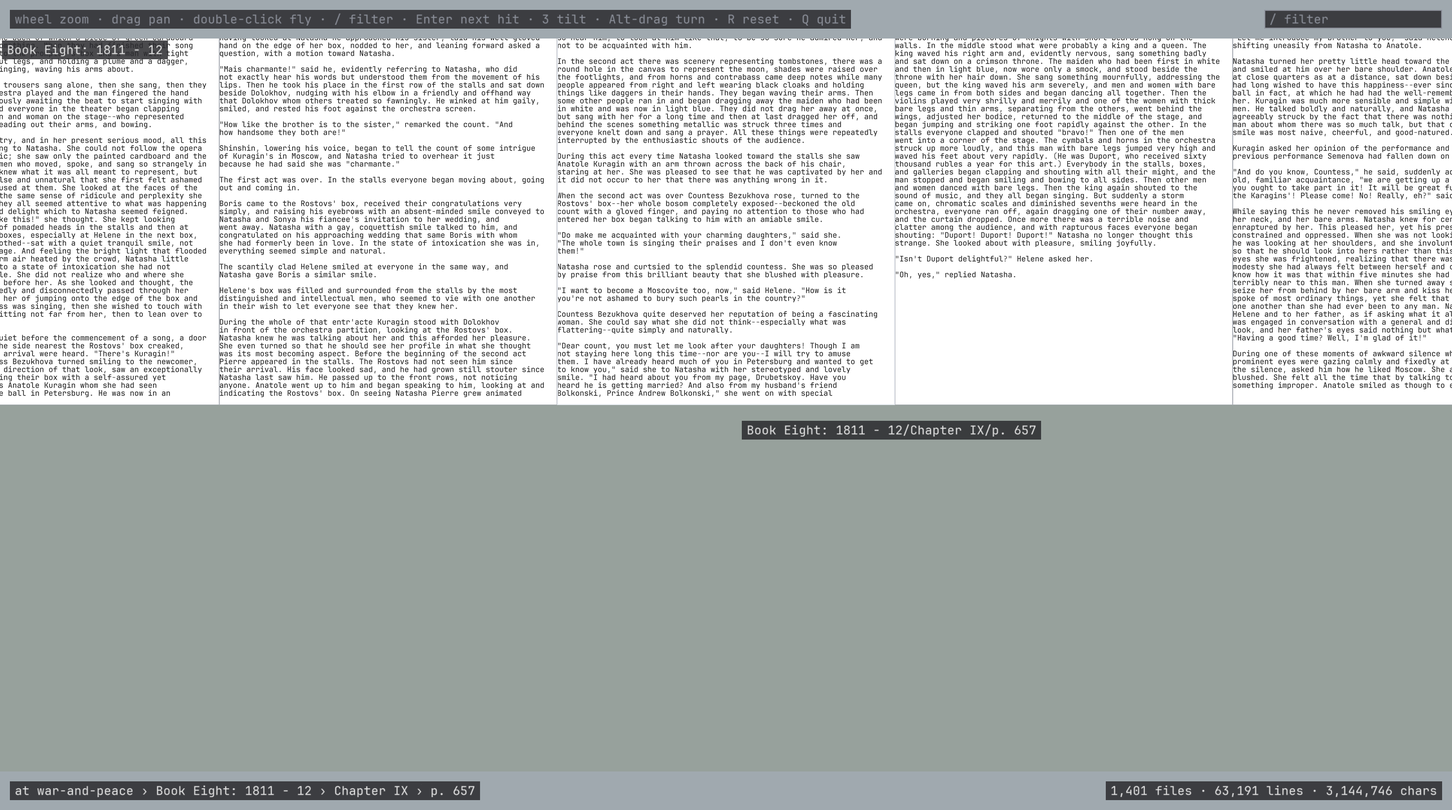
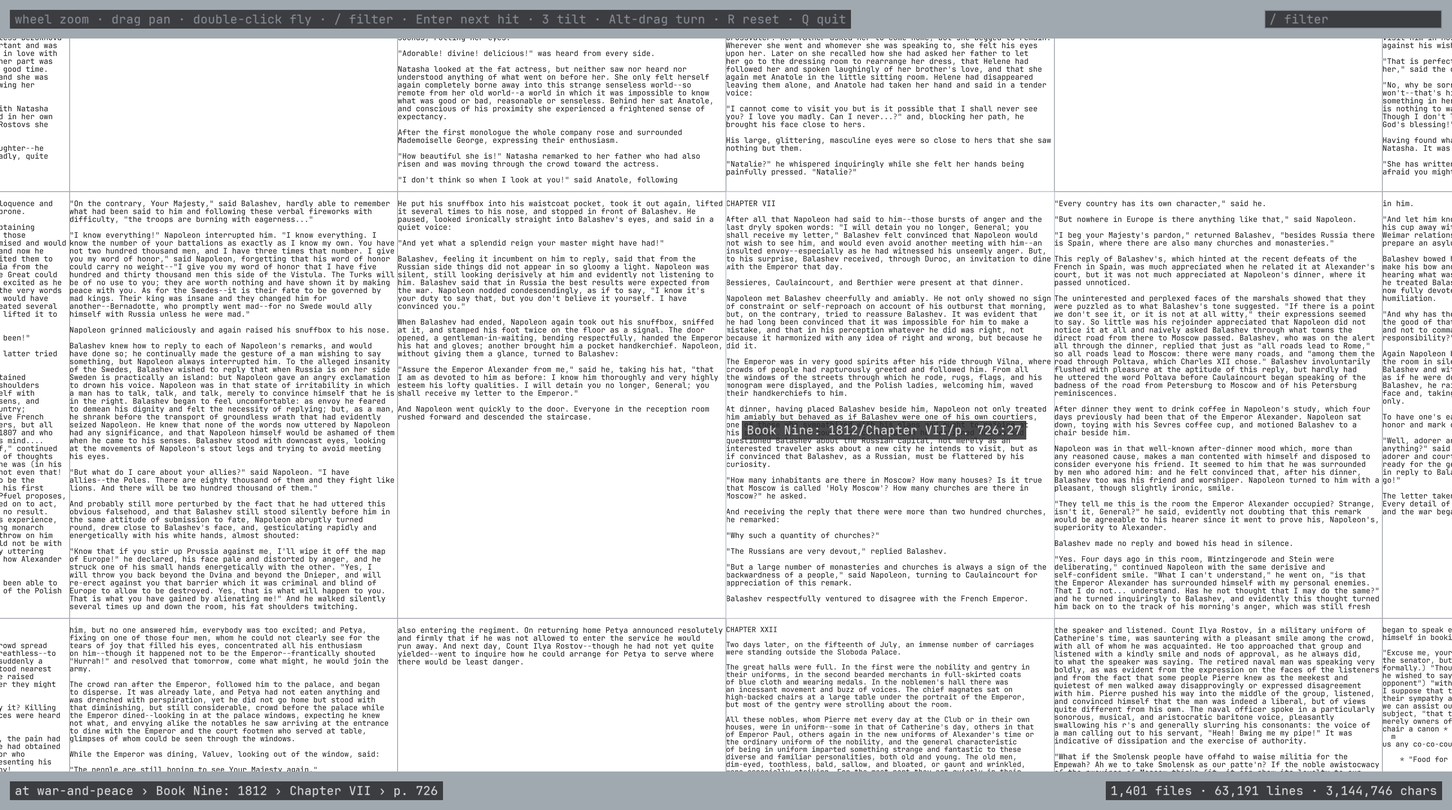
The book flows as one grid of pages, Dobbie's way, and its bands take the ground's colour
atlas_layout.py lays a book out as one grid of every page in reading order by default: the layout's tree is the root alone, the parts draw nothing, 58 pages across for War and Peace; --book-layout parts keeps the bands of page rows. A scheme may name one band colour for every directory instead of the hues, and the book's is its ground, so nothing marks a part but the crumb trail. tests/check_layout.py checks the layout's own tree.

diff --git a/atlas_layout.py b/atlas_layout.py
@@ -9,8 +9,10 @@ subdirectories are squarified inside, biggest first, each file's area its
 weight: tokens for code, lines for a book. A file is split into k equal
 columns so that its text is as large as possible while a column still holds
 the file's typical line length; lines longer than a column wrap inside it.
-A book (index.json "corpus": "book") is laid out in reading order instead,
-parts as bands of page rows, and its layout is flat: nothing rises in 3D.
+A book (index.json "corpus": "book") is laid out in reading order instead:
+one grid of pages, as Dobbie's War and Peace, or with --book-layout parts
+every part its own band of page rows; either way the layout is flat,
+nothing rises in 3D.
 
   ./atlas_layout.py data/big-text_atlas --preview docs/shots/big-text_layout.png
 """
@@ -177,6 +179,37 @@ def book_layout(dirs, world, page_aspect):
             file_rect[f] = (x0 + pp + j * cw, y + pp + i * ch, x0 + pp + (j + 1) * cw, y + pp + (i + 1) * ch)
         y += r * row_h
     return dir_rect, dir_pad, file_rect, cols
+
+
+def book_flow(dirs, world, page_aspect):
+    """Rectangles for a book as one grid: every page one cell of one size,
+    rows filled left to right in reading order across the whole book, the
+    parts not drawn (the layout's tree is the root alone, every page its
+    file; the paths still carry part and chapter). The column count is the
+    one that brings a cell closest to page_aspect from the wide side, so a
+    page's single column holds its lines. Returns (dirs, file_dir,
+    dir_rect, dir_pad, file_rect, cols)."""
+    files = sorted(f for d in dirs for f in d["files"])   # index order is reading order
+    n = len(files)
+    root = dict(dirs[0], children=[], files=files)
+    dir_rect, dir_pad, file_rect = np.zeros((1, 4)), np.zeros(1), np.zeros((n, 4))
+    dir_rect[0] = (0.0, 0.0, world[0], world[1])
+    pad = dir_padding(world[0], world[1])
+    dir_pad[0] = pad
+    x0, y0, x1, y1 = pad, pad, world[0] - pad, world[1] - pad
+    best = None
+    for cols in range(1, max(n, 1) + 1):
+        rows = -(-n // cols)
+        ratio = ((x1 - x0) / cols) / ((y1 - y0) / rows) / page_aspect
+        key = (ratio < 1, abs(math.log(ratio)))
+        if best is None or key < best[0]:
+            best = (key, cols, rows)
+    _, cols, rows = best
+    cw, ch = (x1 - x0) / cols, (y1 - y0) / rows
+    for k, f in enumerate(files):
+        i, j = divmod(k, cols)
+        file_rect[f] = (x0 + j * cw, y0 + i * ch, x0 + (j + 1) * cw, y0 + (i + 1) * ch)
+    return [root], np.zeros(n, np.int64), dir_rect, dir_pad, file_rect, cols
 
 
 # ---------------------------------------------------------------- files
@@ -459,7 +492,13 @@ def build_layout(args, z, meta, t0):
     if flat:
         # a page cell's aspect: the book's line width by its fullest page
         page = (int(meta.get("page_lines", np.diff(file_line0).max())), int(np.percentile(line_len, 99.5)))
-        dir_rect, dir_pad, file_rect, book_cols = book_layout(dirs, world, page[1] * args.char_aspect / (page[0] + 2))
+        aspect_p = page[1] * args.char_aspect / (page[0] + 2)
+        if args.book_layout == "parts":
+            dir_rect, dir_pad, file_rect, book_cols = book_layout(dirs, world, aspect_p)
+        else:
+            dirs, file_dir, dir_rect, dir_pad, file_rect, book_cols = book_flow(dirs, world, aspect_p)
+            n_dirs, dir_hue = 1, np.zeros(1, np.int64)
+            file_hue = np.zeros(n_files, np.int64)
     else:
         dir_rect, dir_pad, file_rect = layout_tree(dirs, weight, file_dir, world, np.diff(file_line0))
     dir_depth = np.zeros(n_dirs, np.int64)
@@ -525,6 +564,9 @@ def main():
                                  formatter_class=argparse.RawDescriptionHelpFormatter)
     ap.add_argument("atlas", metavar="ATLAS_DIR", help="data/<name>_atlas with index.npz + index.json")
     ap.add_argument("--aspect", default="16:9", help="world aspect W:H (default 16:9)")
+    ap.add_argument("--book-layout", choices=["flow", "parts"], default="flow",
+                    help="a book: flow (default) is one grid of pages in reading order; parts gives "
+                         "every part its own band of page rows")
     ap.add_argument("--char-aspect", type=float, default=None,
                     help="character advance / line pitch of the font (default: atlas_font.py's "
                          "metric for the bundled font, JetBrains Mono NL 0.571; 0.6 if it is missing)")

diff --git a/atlas_viewer.py b/atlas_viewer.py
@@ -277,6 +277,7 @@ class Viewer:
         self.bg = rgb(sc["ground"].lstrip("#"))
         self.page = rgb(sc["page"].lstrip("#"))
         self.bar = rgb(sc["bar"].lstrip("#"))
+        self.band = rgb(sc["band"].lstrip("#")) if sc.get("band") else None   # one colour for every band, else the hues
         self.kind_colors = np.array([rgb(h.lstrip("#")) for h in sc["kinds"]], np.float32)
         self.item_colors = {k + 1: rgb(h.lstrip("#")) for k, h in enumerate(sc["items"])}
         if sc.get("font") and args.font == atlas_font.DEFAULT_FONT:
@@ -546,10 +547,14 @@ class Viewer:
             loc = glGetUniformLocation(p, "uKindColor")
             if loc >= 0:
                 glUniform3fv(loc, 10, self.kind_colors)
-            for name, col in (("uPage", self.page), ("uGround", self.bg), ("uBar", self.bar)):
+            for name, col in (("uPage", self.page), ("uGround", self.bg), ("uBar", self.bar),
+                              ("uBandColor", self.band if self.band is not None else self.bg)):
                 loc = glGetUniformLocation(p, name)
                 if loc >= 0:
                     glUniform3f(loc, *col)
+            loc = glGetUniformLocation(p, "uBandFlat")
+            if loc >= 0:
+                glUniform1i(loc, 1 if self.band is not None else 0)
             loc = glGetUniformLocation(p, "uGlyph")
             if loc >= 0:
                 glUniform4f(loc, self.gm["cell_w"], self.gm["cell_h"],

diff --git a/tests/check_layout.py b/tests/check_layout.py
@@ -79,13 +79,13 @@ def main():
     if failures:
         sys.exit(f"{len(failures)} failures")
 
-    dirs = meta["dirs"]
+    dirs = lay["dirs"]                 # the layout's tree: a book's flow layout keeps the root alone
     n_files, n_dirs, n_items = len(meta["files"]), len(dirs), len(meta["items"])
     n_lines = len(z["line_len"])
-    file_line0, file_dir = z["file_line0"], z["file_dir"]
+    file_line0, file_dir = z["file_line0"], L["file_dir"]
     check(len(z["line_off"]) == n_lines + 1 and int(z["line_off"][-1]) == len(z["chars"]) == len(z["kinds"]),
           f"index: line_off spans {len(z['chars'])} chars, {n_lines} lines")
-    check(len(file_line0) == n_files + 1 and int(file_line0[-1]) == n_lines and len(file_dir) == n_files,
+    check(len(file_line0) == n_files + 1 and int(file_line0[-1]) == n_lines and len(z["file_dir"]) == n_files,
           f"index: {n_files} files cover the lines")
     check((np.diff(file_line0.astype(np.int64)) >= 0).all() and (np.diff(z["line_off"].astype(np.int64)) >= 0).all(),
           "index: file_line0 and line_off are monotonic")

diff --git a/book_index.py b/book_index.py
@@ -40,8 +40,9 @@ sys.path.insert(0, os.path.dirname(os.path.abspath(__file__)))
 from atlas_index import (SPECS, MAX_COLS, TAB, PUNCT, SPACE, _CTRL, tokenize, write_index)  # noqa: E402
 
 # the book's colours, Dobbie's: white pages on his demo's blue-grey ground
-# (its clearColor), black text, dark grey bars; words and numbers alike
-SCHEME = {"ground": "a0a9af", "page": "ffffff", "bar": "5a5e66",
+# (its clearColor), black text, dark grey bars, the bands in the ground's
+# own colour so parts draw nothing; words and numbers alike
+SCHEME = {"ground": "a0a9af", "page": "ffffff", "bar": "5a5e66", "band": "a0a9af",
           "kinds": ["000000", "141414", "141414", "141414", "141414", "3a3a3a", "141414", "4a4a4a", "141414", "141414"],
           "items": ["7aa2f7", "e0c080", "d7a0a8", "5fb7b7", "8c909a"]}
 

diff --git a/README.md b/README.md
@@ -8,7 +8,7 @@ big-text is the text-scale sibling of [big-picture](https://github.com/erik-lars
 
 ![War and Peace tilted at 3 pixels per line: one flat sheet of pages, the near ones as text, the far rows as line bars, the Books as coloured bands](docs/shots/war-and-peace/hero.png)
 
-*The same viewer on War and Peace, Dobbie's example, in his colours: white pages on the blue-grey ground of his demo, 1,401 pages and 2.63 million glyphs as one flat sheet, tilted, the near pages at the text rung and the far rows at bars in the same frame, the Books as bands.*
+*The same viewer on War and Peace, Dobbie's example, in his colours: white pages on the blue-grey ground of his demo, 1,401 pages and 2.63 million glyphs as one grid in reading order, tilted, the near pages at the text rung and the far rows at bars in the same frame.*
 
 It shows three kinds of content, in this order of priority: text, images, 2D vector work. Each has an open-source lineage, and the ladder that ties them together has a fourth:
 
@@ -122,7 +122,7 @@ Dobbie's example, War and Peace, needs nothing beyond the install: no submodule,
 ```
 
 1. `book_index.py` fetches Project Gutenberg ebook 2600 (3.4 MB) into `data/gutenberg/pg2600.txt` on the first run and reads it from there after, drops Gutenberg's header and footer, and splits the text on its headings: `BOOK ONE: 1805` and the two epilogues open a part, `CHAPTER I` a chapter, every 52 lines of a chapter are a page. It writes `data/war-and-peace_atlas/index.npz` and `index.json`, the same index a source tree gets, with parts as directories and pages as files named `Book One: 1805/Chapter I/p. 17`, and the book's scheme, Dobbie's: white pages, black text, grey bars, his demo's blue-grey ground; and prints the counts: 18 parts, 366 chapters, 1,401 pages, 2.63 million glyphs, half a second.
-2. `atlas_layout.py` sees `"corpus": "book"` in the index and lays the pages out in reading order instead of a treemap: every part a full-width band of whole page rows, every page one cell, 65 pages across, and writes `layout.npz`, with lines as the book's one metric; in 3D a book is one flat sheet, nothing extruded, the tilt just a way of looking at it. Add `--preview docs/shots/war-and-peace_layout.png` to render the result with Pillow without opening a window.
+2. `atlas_layout.py` sees `"corpus": "book"` in the index and lays the pages out in reading order instead of a treemap: one grid, as Dobbie's demo, every page one cell of one size, 58 pages across, the parts drawing nothing, and writes `layout.npz`, with lines as the book's one metric; `--book-layout parts` gives every part its own band of page rows instead. In 3D a book is one flat sheet, nothing extruded, the tilt just a way of looking at it. Add `--preview docs/shots/war-and-peace_layout.png` to render the result with Pillow without opening a window.
 3. `atlas_viewer.py` opens the book fitted to the window. Everything in Controls works: `/` filters (`Natasha` finds 1,213 mentions on 299 pages), Enter flies to the next hit, `3` tilts the sheet (a book has no heights in 3D), hover names the part, chapter and page under the cursor. There is no tint, since a book has no commits.
 
 The README's second image is the viewer scripted from the shell, and the opening pages are one flag away:
@@ -191,7 +191,7 @@ The tint over the fitted map: lines added and removed over the whole history, lo
 
 ### A book
 
-The same images for War and Peace, in `docs/shots/war-and-peace/`. The map fitted: the front matter, then every Book a band of whole page rows in reading order, 65 pages across, each page a cell of one size, a chapter's last page short, a Book's last row short.
+The same images for War and Peace, in `docs/shots/war-and-peace/`. The map fitted: one grid of 1,401 pages in reading order, 58 across, each page a cell of one size, a chapter's last page short.
 
 ![the book fitted](docs/shots/war-and-peace/overview.png)
 
@@ -209,9 +209,9 @@ The filter `Natasha`: 1,213 mentions on 299 pages, every page with one outlined 
 How each stage is built is in [docs/DESIGN.md](docs/DESIGN.md). The short version:
 
 - **Index.** `atlas_index.py` walks the tree (honouring `.gitignore`, skipping binaries and submodules), expands tabs, maps every character to one column, and runs a small regex tokenizer per language family (Rust, C-like, Python, shell, plain) that gives every character one of ten kinds. Items (functions, structs, enums, impls, modules) come from regexes with brace or indentation matching. The output is a handful of numpy arrays: characters, kinds, line offsets, file ranges, item ranges, and the tint. `book_index.py` writes the same index from a Project Gutenberg text: a heading line such as `BOOK ONE: 1805` opens a part, `CHAPTER I` a chapter, and every 52 lines of a chapter are a page, the file, named `Book One: 1805/Chapter I/p. 17`; the text is kept as Gutenberg wrapped it and normalised to ASCII (curly quotes straight, the em dash two hyphens, accents stripped, so Natásha is Natasha until the glyph tiers cover more than ASCII), and words are the identifier kind, with no string literals and no items.
-- **The scheme.** An index may carry a `scheme`: the ground, the page (the file fill), the bar colour, the ten kind colours, the five item colours, and a face under `fonts/`; the viewer takes what is given over the code atlas's defaults and hands the colours to the shaders as uniforms. The book's is Dobbie's demo: pages as white quads on a `#a0a9af` ground, text black. His face came from the source PDF and could not be read from the demo, so the book keeps the monospace face until the proportional serif of open question 2.
+- **The scheme.** An index may carry a `scheme`: the ground, the page (the file fill), the bar colour, the ten kind colours, the five item colours, and a face under `fonts/`; the viewer takes what is given over the code atlas's defaults and hands the colours to the shaders as uniforms. The book's is Dobbie's demo: pages as white quads on a `#a0a9af` ground, text black, and the bands in the ground's own colour, so the parts draw nothing. His face came from the source PDF and could not be read from the demo, so the book keeps the monospace face until the proportional serif of open question 2.
 - **The tint.** In a git checkout the index step runs one `git log --numstat` over the indexed directories (20 seconds for emscripten's 30,274 commits, under a second for big-text's), sums each file's lines added and removed, a rename counting as a removal and an addition, and writes the sums on a log scale to 0..1 as the tint, labelled `churn`. The viewer knows only that a leaf has a number in 0..1 and a label: it maps the number to ember over the file fill and shows the label in the status line. A book writes no tint.
-- **Layout.** `atlas_layout.py` is a squarified treemap over the directory tree with padding per level, sized to about two lines of the directory's own text, which the viewer draws as the directory band: a few pixels wide at most, so the bands stay thin at every zoom, a hairline at the fit and a gutter of two lines once the text is legible. Each file's area is its weight, tokens for code. Each file is wrapped into as many equal columns as keep a 90th-percentile line width readable; lines longer than a column wrap inside it, continuation rows hanging in by two characters. `tests/check_layout.py` checks the invariants. A book skips the treemap: its parts are full-width bands of whole page rows in reading order, every page one cell of the size that lets one column hold the book's line width, so 65 pages across for War and Peace, and every page pitched as a full page so a short last page keeps its chapter's text size.
+- **Layout.** `atlas_layout.py` is a squarified treemap over the directory tree with padding per level, sized to about two lines of the directory's own text, which the viewer draws as the directory band: a few pixels wide at most, so the bands stay thin at every zoom, a hairline at the fit and a gutter of two lines once the text is legible. Each file's area is its weight, tokens for code. Each file is wrapped into as many equal columns as keep a 90th-percentile line width readable; lines longer than a column wrap inside it, continuation rows hanging in by two characters. `tests/check_layout.py` checks the invariants. A book skips the treemap: one grid of pages in reading order, every page one cell of the size that lets one column hold the book's line width, so 58 pages across for War and Peace, and every page pitched as a full page so a short last page keeps its chapter's text size; `--book-layout parts` gives every part its own band of page rows instead.
 - **The ladder.** Per frame the viewer computes device pixels per line for every file and picks a rung: under 1, sampled one-pixel bars; 1 to 3, one grey bar per line from indent to length, with items as filled bands in their kind colour beneath; 3 to 6, one block per character in its kind colour plus item outlines; 6 and up, glyphs. The switches are hard cuts, as in the video. Everything is resident: characters and kinds as 8-bit textures, lines and files as float and integer textures, one instanced quad per line drawn per run of visible files.
 - **Glyphs.** `atlas_font.py` rasterises the 95 printable ASCII glyphs of one monospace face into a mipmapped atlas that also draws the UI; the line box is the face's ASCII ink extents rather than its OS/2 box, so a change of face does not change the proportions of the layout. `vt_glyphs.py` builds the vector tier's data in Slug's form: quadratic outlines from fontTools as float32 control points in a curve texture, and per glyph horizontal and vertical bands over its ink box, each listing the curves that cross it sorted for the shader's early exit. `shaders/vt_glyph.glsl` is a GLSL translation of the reference pixel shader: the sign-bit root rule, two axis rays with a box filter, the weighted combination.
 - **Filter.** A whole-word regex over the corpus in a thread, chunked so the frame loop keeps running, with mentions inside comments and strings excluded. The panel lists the hits by file with the line each sits on, the status line counts hits and files, and stepping flies from one to the next.

diff --git a/docs/DESIGN.md b/docs/DESIGN.md
@@ -83,7 +83,7 @@ A file's rectangle is split into k equal columns with a gap of 6 percent of the 
 
 `layout.json`: `world`, `aspect`, `weight` (`tokens` or `lines`), `flat` (true for a book: nothing rises in 3D), `char_aspect`, `hang` (2), and `dirs` with each directory's label (its own name with a trailing slash; the root's is the corpus name), rect, depth, hue, parent, children and files.
 
-`--preview` renders the layout with Pillow at 2400 pixels wide, the layout's own test. `tests/check_layout.py` checks the invariants: dtypes and shapes, every file inside its directory's inner rectangle and every directory inside its parent's, no overlapping siblings, every row cell inside its file, the rows of a line covering exactly its characters, item rectangles inside their file, every item with at least one rectangle.
+`--preview` renders the layout with Pillow at 2400 pixels wide, the layout's own test. `tests/check_layout.py` checks the invariants against the layout's own tree (a book's flow layout keeps the root alone): dtypes and shapes, every file inside its directory's inner rectangle and every directory inside its parent's, no overlapping siblings, every row cell inside its file, the rows of a line covering exactly its characters, item rectangles inside their file, every item with at least one rectangle.
 
 ## Stage 3: the viewer
 
@@ -130,9 +130,9 @@ The filter (`/` or a click in the box; `Backspace`; `Escape` clears) runs from t
 
 The README's adapter split (a hierarchy, a layout, an aggregate colour per corpus; everything else shared) was tried on Dobbie's own example, the whole of War and Peace, and held: one indexer and one placement function, no new shader, no viewer change but a parser fix.
 
-`book_index.py` reads a Project Gutenberg plain text (`--gutenberg N` fetches `https://www.gutenberg.org/cache/epub/N/pgN.txt` into `data/gutenberg/` once) and writes the same `index.npz` + `index.json` as `atlas_index.py`, through the `write_index` function shared with stage 1. The hierarchy is parts over chapters over pages: a heading at column 0 such as `BOOK ONE: 1805`, `PART I` or `FIRST EPILOGUE: 1813 - 20` opens a part, `CHAPTER I` a chapter, and every `--page-lines` (52) lines of a chapter are one page, numbered through the book (`Book One: 1805/Chapter I/p. 17`); a page never starts with a blank line, runs of blank lines are squeezed to one, a chapter ends its last page early. The contents listing indents its copies of every heading, which is what keeps it out of the structure. The parts are the directories (18 with the front matter) and the pages the files; chapters are in the page paths only, so the layout is a grid of pages per part, as printed, and the hover label carries the chapter. Gutenberg's header and footer, outside the `*** START` and `*** END` lines, are dropped. A text with no heading at all is one part named after the corpus, its pages `name/p. N`, so any plain text file is a book. Text is kept on Gutenberg's own line breaks (72 columns, 85 at most) and normalised to ASCII: curly quotes straight, the em dash `--`, accents stripped by NFKD decomposition (Natásha to Natasha), the rest `?`; the whole book fits Windows-1252, so one byte per character would hold the accents once the glyph tiers cover more than 32 to 126 (README, open question 2). A `prose` tokenizer spec gives words the ident kind and numbers the number kind, with no string literals (a line of dialogue is not a string) and no items. The index carries the book's scheme, taken from Dobbie's demo: pages as white quads, text black, on the `#a0a9af` ground his page clears to; the face of his demo came from the source PDF and is not recorded anywhere reachable, so the book keeps the monospace face for now. War and Peace: 18 parts, 366 chapters, 1,401 pages, 63,191 lines, 3.14 M characters, 2.63 M glyphs, 0.46 s; Dobbie's reflowed pages numbered 1,273.
+`book_index.py` reads a Project Gutenberg plain text (`--gutenberg N` fetches `https://www.gutenberg.org/cache/epub/N/pgN.txt` into `data/gutenberg/` once) and writes the same `index.npz` + `index.json` as `atlas_index.py`, through the `write_index` function shared with stage 1. The hierarchy is parts over chapters over pages: a heading at column 0 such as `BOOK ONE: 1805`, `PART I` or `FIRST EPILOGUE: 1813 - 20` opens a part, `CHAPTER I` a chapter, and every `--page-lines` (52) lines of a chapter are one page, numbered through the book (`Book One: 1805/Chapter I/p. 17`); a page never starts with a blank line, runs of blank lines are squeezed to one, a chapter ends its last page early. The contents listing indents its copies of every heading, which is what keeps it out of the structure. The parts are the directories (18 with the front matter) and the pages the files; chapters are in the page paths only, so the layout is a grid of pages per part, as printed, and the hover label carries the chapter. Gutenberg's header and footer, outside the `*** START` and `*** END` lines, are dropped. A text with no heading at all is one part named after the corpus, its pages `name/p. N`, so any plain text file is a book. Text is kept on Gutenberg's own line breaks (72 columns, 85 at most) and normalised to ASCII: curly quotes straight, the em dash `--`, accents stripped by NFKD decomposition (Natásha to Natasha), the rest `?`; the whole book fits Windows-1252, so one byte per character would hold the accents once the glyph tiers cover more than 32 to 126 (README, open question 2). A `prose` tokenizer spec gives words the ident kind and numbers the number kind, with no string literals (a line of dialogue is not a string) and no items. The index carries the book's scheme, taken from Dobbie's demo: pages as white quads, text black, on the `#a0a9af` ground his page clears to, the bands in that ground colour so nothing marks a part but the crumb trail; the face of his demo came from the source PDF and is not recorded anywhere reachable, so the book keeps the monospace face for now. War and Peace: 18 parts, 366 chapters, 1,401 pages, 63,191 lines, 3.14 M characters, 2.63 M glyphs, 0.46 s; Dobbie's reflowed pages numbered 1,273.
 
-`atlas_layout.py` reads `"corpus": "book"` and `"page_lines"` from the index and skips the treemap: `book_layout` makes every part a full-width band of whole page rows stacked in reading order, every page one cell of one size, rows filled left to right, a part's last row short. The column count is the one that brings a cell closest to the page aspect (the book's 99.5th-percentile line width times the character aspect, over the page's lines plus two) from the wide side, so a page's single column always holds its lines: 65 across for War and Peace, 16 wrapped rows in the whole book (the few lines past 73 columns). `layout_files` takes a `page` argument that pitches every file as a full page aimed at the book's line width, so a short last page keeps its chapter's text size and no page splits into columns. A book's weight is lines, so every page is one cell whatever its length, and its layout declares itself flat: in 3D nothing rises, the tilted view is the sheet in perspective. The code rule, a file's height as the square root of its weight and a terrace per directory level, made the book a city of near-equal blocks under tokens and a plateau with dips at chapter ends under lines, and equal heights still left the Books as terraces; a book is one sheet. The strip treemap (Bederson et al.) was tried first with chapters as directories and rejected: pages came out at every size and shape, which is the code map's look, not a book's. The empty end of each band is the price of parts as rectangles; letting a part start mid-row would make it a non-rectangle, which nothing in the viewer draws.
+`atlas_layout.py` reads `"corpus": "book"` and `"page_lines"` from the index and skips the treemap. The default, `book_flow`, is one grid of every page in reading order, as Dobbie's demo: the layout's tree is the root alone, the parts draw nothing, 58 pages across for War and Peace. `--book-layout parts` keeps the earlier `book_layout`: every part a full-width band of whole page rows stacked in reading order, every page one cell of one size, rows filled left to right, a part's last row short. The column count is the one that brings a cell closest to the page aspect (the book's 99.5th-percentile line width times the character aspect, over the page's lines plus two) from the wide side, so a page's single column always holds its lines: 65 across for War and Peace, 16 wrapped rows in the whole book (the few lines past 73 columns). `layout_files` takes a `page` argument that pitches every file as a full page aimed at the book's line width, so a short last page keeps its chapter's text size and no page splits into columns. A book's weight is lines, so every page is one cell whatever its length, and its layout declares itself flat: in 3D nothing rises, the tilted view is the sheet in perspective. The code rule, a file's height as the square root of its weight and a terrace per directory level, made the book a city of near-equal blocks under tokens and a plateau with dips at chapter ends under lines, and equal heights still left the Books as terraces; a book is one sheet. The strip treemap (Bederson et al.) was tried first with chapters as directories and rejected: pages came out at every size and shape, which is the code map's look, not a book's. The empty end of each band is the price of parts as rectangles; letting a part start mid-row would make it a non-rectangle, which nothing in the viewer draws.
 
 The viewer needed one fix: `--goto` split its argument at the first colon, and a book's paths hold colons (`Book One: 1805/...`); it now splits at the last colon and only when a line number follows. The frame loop measured 2.4 ms mean over the scripted zoom (9.1 MB on the GPU). Screenshots and their commands are in `docs/shots/README.md`, the hero (3D at 3 px per line about page 481) is the README's second image.
 

diff --git a/docs/shots/README.md b/docs/shots/README.md
@@ -44,14 +44,14 @@ The line numbers in the `--goto` and `--hover` commands are the ones that held w
 ## The README's opening images
 
 - `big-text/hero.png`: big-text's own source fitted in 3D at tilt 55 and yaw 12 with the heights and the tint on: the most edited files ember, the roofs at the rungs their sizes allow.
-- `war-and-peace/hero.png`: War and Peace in 3D at tilt 55 and yaw 12, 3 px per line about page 481 (Book Five): one flat sheet in perspective, the near pages at the text rung, the far rows at bars, the Books as bands with their labels stacked along the left edge. The README's second image.
+- `war-and-peace/hero.png`: War and Peace in 3D at tilt 55 and yaw 12, 3 px per line about page 481 (Book Five): one flat grid of pages in perspective (a book has no heights), the near pages at the text rung, the far rows at bars. The README's second image.
 - `emscripten/hero.png`: the same on emscripten at 2.2 px per line about `tools/link.py` with the tint on: the near roofs at the tokens and text rungs, the far ones at bars. Not in the README.
 
 ## Layout previews
 
 - `big-text_layout.png`: the layout stage's own render of big-text (29 files, about 7,200 lines): the `docs/`, `tests/` and `shaders/` bands, files as 1 px outlines wrapped into columns, one grey bar per line from indent to length.
 - `emscripten_layout.png`: the same for the whole emscripten tree (11,495 files, 2.80 million lines, 698 directories): nested directory bands in the top-level hue, `test/` and `system/` the largest, big files wrapped into up to 64 columns, tiny files as slivers.
-- `war-and-peace_layout.png`: the book: the front matter, then every Book a full-width band of whole page rows, 65 pages across, one grey bar per line, a chapter's last page short.
+- `war-and-peace_layout.png`: the book: one grid of 1,401 pages in reading order, 58 across, one grey bar per line, a chapter's last page short.
 
 ## big-text (its own source: 29 files, about 7,200 lines)
 
@@ -71,10 +71,10 @@ The whole tree as git tracks it, test suites and system libraries included, at t
 
 In the book's own scheme, Dobbie's: white pages and black text on his demo's blue-grey ground. The standard set with `--filter Natasha` (1,213 hits on 299 pages), a book having no tint, plus:
 
-- `war-and-peace/overview.png`: the map fitted: `Front Matter` on top, then the 15 Books and two epilogues as bands of whole page rows in reading order, each labelled, each page a cell at the line-bars rung, the last row of every Book short.
+- `war-and-peace/overview.png`: the map fitted: one grid of pages in reading order, the front matter's contents pages first, each page a cell at the line-bars rung; no part is drawn, the crumb trail names the one under the centre.
 - `war-and-peace/hover.png`: the text view hovered at the centre: the label `Book Eight: 1811 - 12/Chapter IX/p. 657` (part, chapter, page; a book has no items).
 - `war-and-peace/result.png`: after stepping to the first mention (Book One, Chapter XI, p. 56, line 41), the fly-to at text zoom with the hit filled yellow.
-- `war-and-peace/3d.png`, `3d_zoom.png`: the sheet tilted, nothing extruded: a book's layout is flat whatever the heights setting.
+- `war-and-peace/3d.png`, `3d_zoom.png`: the grid tilted, nothing extruded: a book's layout is flat whatever the heights setting.
 - `war-and-peace/opening.png`: `--goto "p. 17:1" --zoom 11`: the book's first pages, the contents on the front-matter pages above `Book One: 1805` and Chapter I.
 
 ## Frame times
